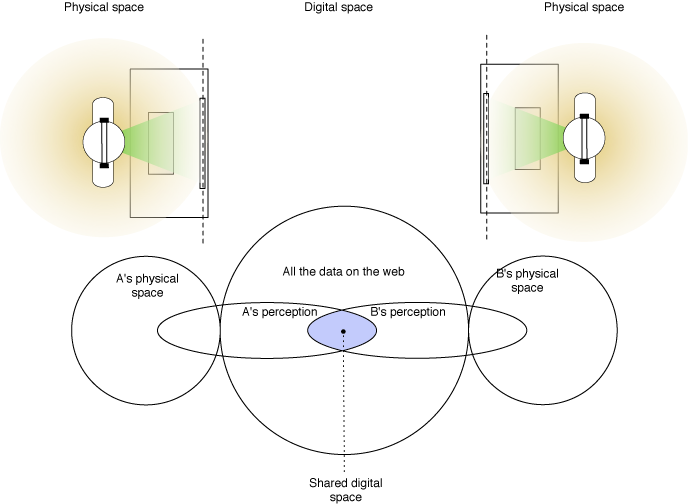
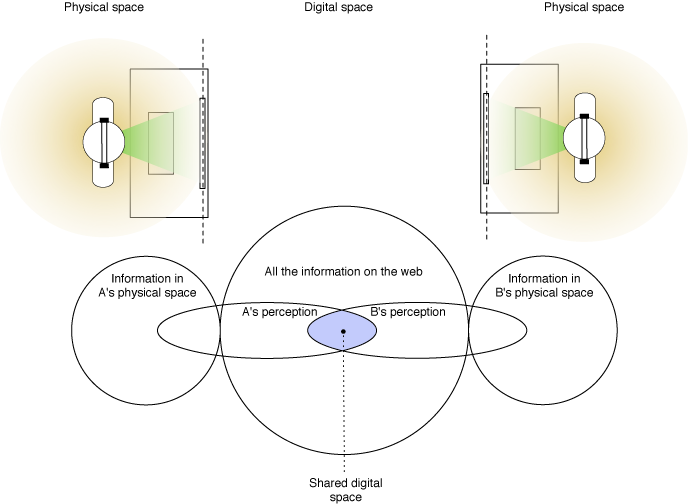
automated commit

Changed region(s): [[0.702, 0.5357, 0.8547, 0.5952], [0.1221, 0.5357, 0.3052, 0.5952], [0.3968, 0.506, 0.6105, 0.5655]]

diff --git a/html/shared_digital_space/index.html b/html/shared_digital_space/index.html
@@ -25,7 +25,7 @@
     <body>
         
         <div class="container">
-            <h1>Digital space, physical space</h1>
+            <h1>Shared space, band width, informational landscape</h1>
             <p><em>How can shared digital space and shared physical space intersect?</em></p>
             
           
@@ -43,27 +43,111 @@
                     <p>Social norms and the ergonomics of attention are key differences between shared physical space and shared digital space.</p>
                     
 
-                
                 </div>
             </div>
             
+            <hr />
             
-        
-                
-                
+            <!-- PURE PHYSICAL -->
+            
+            <div class='row'>
+                <div class='col-md-12'><h3>Pure physical space</h3></div>
             </div>
-        </div>
-    </div> <!-- /container -->        
+            <div class='row'>
+                
+                <div class='col-md-8'>
+                    
+                    <img src='img/pure_physical.png' />
+                </div>
+                    
+                <div class='col-md-3'>
+                    <ul>
+                        <li>Peripheral vision gives everyone a sense of what everyone else is doing</li>
+                        <li>Social norms require a high degree of social interaction</li>
+                    </ul>                            
+                </div>    
+            </div>
+            
+            <!-- PURE DIGITAL -->
+                
+            <hr/>
+   
+            <div class='row'>
+                <div class='col-md-12'><h3>Pure digital space</h3></div>
+            </div>
+            
+            
+            <div class='row'>
+                
+                <div class='col-md-8'>
+                    
+                    <img src='img/pure_digital.png' />
+                </div>
+                    
+                <div class='col-md-3'>
+                    <ul>
+                        <li>Many open source project successfully coordinate an build community through only digital share space</li>
+                        <li>When a project is purely digital, by definition only those who are prepared to regularly engage in digital space will participate</li>
+                        <li>Developers are weird</li>
+                    </ul>
+                </div>    
+            </div>         
+            
+            
+            <!-- HYBRID -->
+                
+            <hr/>
+   
+            <div class='row'>
+                <div class='col-md-12'><h3>Hybrid space</h3></div>
+            </div>
+            
+            
+            <div class='row'>
+                
+                <div class='col-md-8'>
+                    
+                    <img src='img/hybrid.png' />
+                </div>
+                    
+                <div class='col-md-3'>
+                    <ul>
+                        <li>In hybrid space there are weak social norms: often checking email is the only strongly enforced activity in shared digital space.</li>
+                        <li>In hybrid space, there is no peripheral vision: unless you specifically choose to, you will not 'bump into' each other in digital space.</li>
+                        <li>The connection between digital space and physical space is very weak, for example a screen typically takes up 0.5% of the visual field</li>
+                    </ul>                            
+                </div>    
+            </div>
+            
+            
+            <div class='row'>
+                <div class='col-md-6'>
+                    <h3>In summary... </h3>
+                    <p>Two people sharing a physical space have a small information space, plenty of bandwidth to do so with, and strong social norms to bind each other.</p>
+                    <p>Two people in digital space have a virtually infinite information space to explore, with tiny bandwidth to use and weak social conventions</p>
+                </div>
+            </div>
+           
+           
+            <div class='row'>
+                <div class='col-md-6'>
+                    <h3>...so a good design intervention would... </h3>
+                    <ul>
+                        <li>Increase bandwidth between individuals and shared digital space</li>
+                        <li>Increase the desire to participate</li>                        
+                        <li>Be peripherally visible</li>
+                    </ul>                         
+                </div>
+            </div>
+           
+           
+           
+            
+        </div> <!-- /container -->        
     
     
     
-    
-    
-    
-    
-    
-    
-    <script src="//ajax.googleapis.com/ajax/libs/jquery/1.10.1/jquery.min.js"></script>
+        <script src="//ajax.googleapis.com/ajax/libs/jquery/1.10.1/jquery.min.js"></script>
         <script>window.jQuery || document.write('<script src="js/vendor/jquery-1.10.1.min.js"><\/script>')</script>
 
         <script src="js/vendor/bootstrap.min.js"></script>
